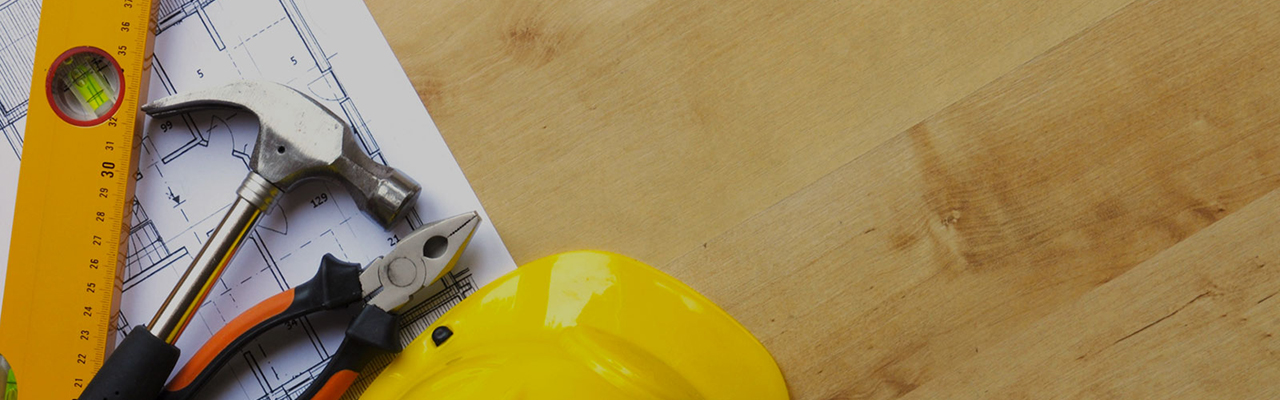
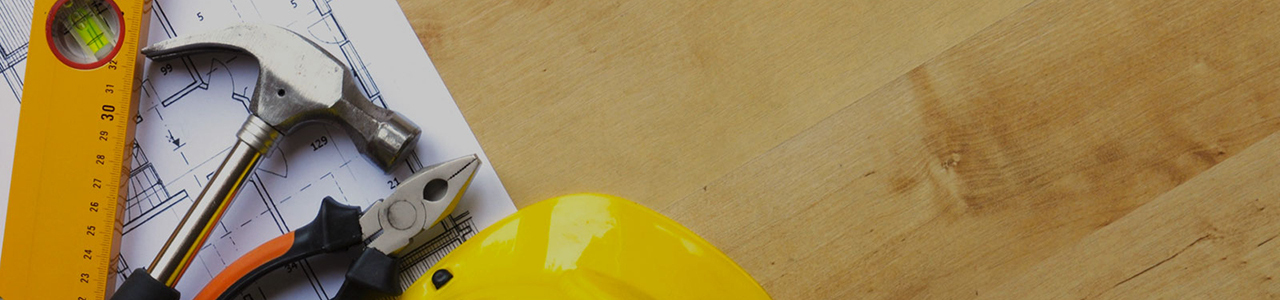
Update

diff --git a/css/style.css b/css/style.css
@@ -7,18 +7,17 @@ body{
     font-family: Verdana;
 }
 div.contact{
-    width: 80%;
+    width: 24%;
     margin:0px auto;
-    margin-top: 50px;
-    text-align: center;
+    float: left;
 }
 div.header{
 	max-width: 1280px;
 	margin: 0px auto;
-	height: 75px;
+	height: 65px;
 }
 div.header > img {
-	max-width: 100px;
+	max-width: 85px;
 	float: left;
 }
 div.wrapper{
@@ -26,42 +25,42 @@ div.wrapper{
 	margin: 0px auto;
 	background-color: #d5d5d5;
 	display: flex;
-	padding: 20px;
+	padding: 10px;
 }
 div.main_div_wrapper{
 	max-width: 1280px;
 	margin: 0px auto;
 	background-color: #d5d5d5;
 	display: flex;
-	padding: 0px 20px;
+	padding: 0px 10px;
 }
 div.menu{
 	background-color: #eeeced;
 	float: left;
 	margin-right: 10px;
-	flex: 0.24;
+	flex: 0.19;
 	margin-bottom: 2px;
 }
 div.menu > ul{
 	list-style-type: none;
-	padding-left: 20px;
+	padding-left: 10px;
 }
 .menuitem {
     position: relative;
     display: inline-block;
     width: 90%;
-    height: 50px;
+    height: 35px;
     background: transparent;
     cursor: pointer;
     text-align: left;
-    padding-left: 20px;
+    padding-left: 10px;
 }
 .menuitem span{
 	position: absolute;
     bottom: 0;
     left: 0;
     width: 0%;
-    height: 50px;
+    height: 35px;
     background: #903618;
     transition: all 0.6s;
 }
@@ -70,9 +69,9 @@ div.menu > ul{
 }
 div.menu > ul > li{
 	cursor: pointer;
-	height: 50px;
-	line-height: 50px;
-	font-size: 20px;
+	height: 35px;
+	line-height: 35px;
+	font-size: 16px;
     text-transform: uppercase;
 }
 div.menuitem > div:hover{
@@ -82,14 +81,14 @@ div.menuitem > div:hover{
 }
 div.main_image{
 	float: left;
-	flex: 0.76;
+	flex: 0.81;
 }
 div.main_image > img{
 	max-width: 100%;
 }
 div.main_div{
 	width: 100%;
-	margin-top: -15px;
+	margin-top: 0px;
 	margin-bottom: 10px;
 }
 div.main_div > .gradient_about {
@@ -102,7 +101,7 @@ div.main_div > .gradient_about {
     border:1px solid #93925a;
     box-sizing: border-box;
     margin-right: 10px;
-    height: 175px;
+    height: 125px;
     float: left;
 }
 div.main_div > .gradient_services {
@@ -115,7 +114,7 @@ div.main_div > .gradient_services {
     border:1px solid #c29135;
     box-sizing: border-box;
     margin-right: 10px;
-    height: 175px;
+    height: 125px;
     float: left;
 }
 div.main_div > .gradient_contact {
@@ -127,7 +126,7 @@ div.main_div > .gradient_contact {
     width: 33.33%;
     border:1px solid #b34824;
     box-sizing: border-box;
-    height: 175px;
+    height: 125px;
     float: left;
 }
 div.home_page_footer_wrapper{
@@ -153,7 +152,7 @@ div.footer{
 	background-color: #f8f8f8;
 	max-width: 1280px;
 	margin: 0px auto;
-	padding: 0px 20px;
+	padding: 0px 10px;
 	font-size: 14px;
 	line-height: 50px;
 }
@@ -174,7 +173,7 @@ div.footer{
 	float: right;
 }
 .social_wrapper{
-	padding-top: 40px;
+	padding-top: 30px;
 }
 @media only screen and (max-width: 1200px){
 	div.menuitem{

diff --git a/pages/contact.html b/pages/contact.html
@@ -1,8 +1,10 @@
 <div class="contact">
 	    <h2>Ramen Plaatser</h2>
-	    Tel: +32.485.588.121
+	    Tel: +32 472 87 67 53
 	    <br/>
 	    Email: <a href="mailto:info@ramenplaatser.eu">info@ramenplaatser.eu</a>
 	    <br/><br/><br/><br/>
 	    Also visit our partner :  <a href="http://www.qforte.be" target="new">QForte.be</a>
+</div>
+<div class="contact_form">
 </div>
